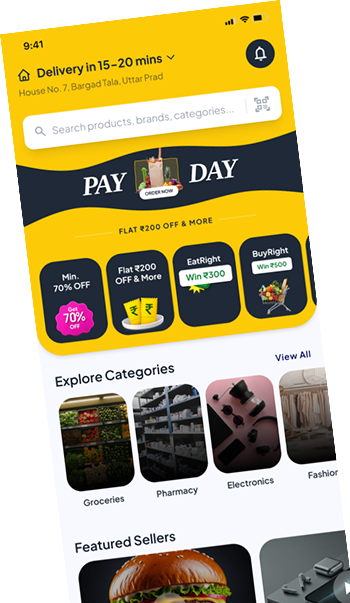
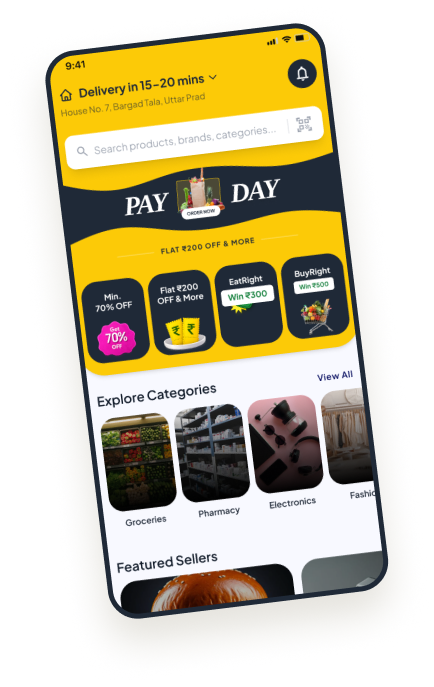
fix design

diff --git a/src/sections/Hero.jsx b/src/sections/Hero.jsx
@@ -80,7 +80,7 @@ const Hero = () => {
               alt="RioGrow shopping application"
               className="
                 absolute
-                w-[155px] sm:w-[210px] lg:w-[250px]
+                w-[165px] sm:w-[210px] lg:w-[250px]
                 left-1/2 lg:left-[8%]
                 -translate-x-[80%] lg:translate-x-0
                 top-[8%]
@@ -96,10 +96,10 @@ const Hero = () => {
               alt="RioGrow local sellers application"
               className="
                 absolute
-                w-[155px] sm:w-[210px] lg:w-[250px]
+                w-[165px] sm:w-[210px] lg:w-[250px]
                 left-1/2 lg:left-[38%]
                 -translate-x-[25%] lg:translate-x-0
-                top-[17%]
+                top-[12%]
                 rotate-[1deg]
                 z-20
                 object-contain drop-shadow-xl
